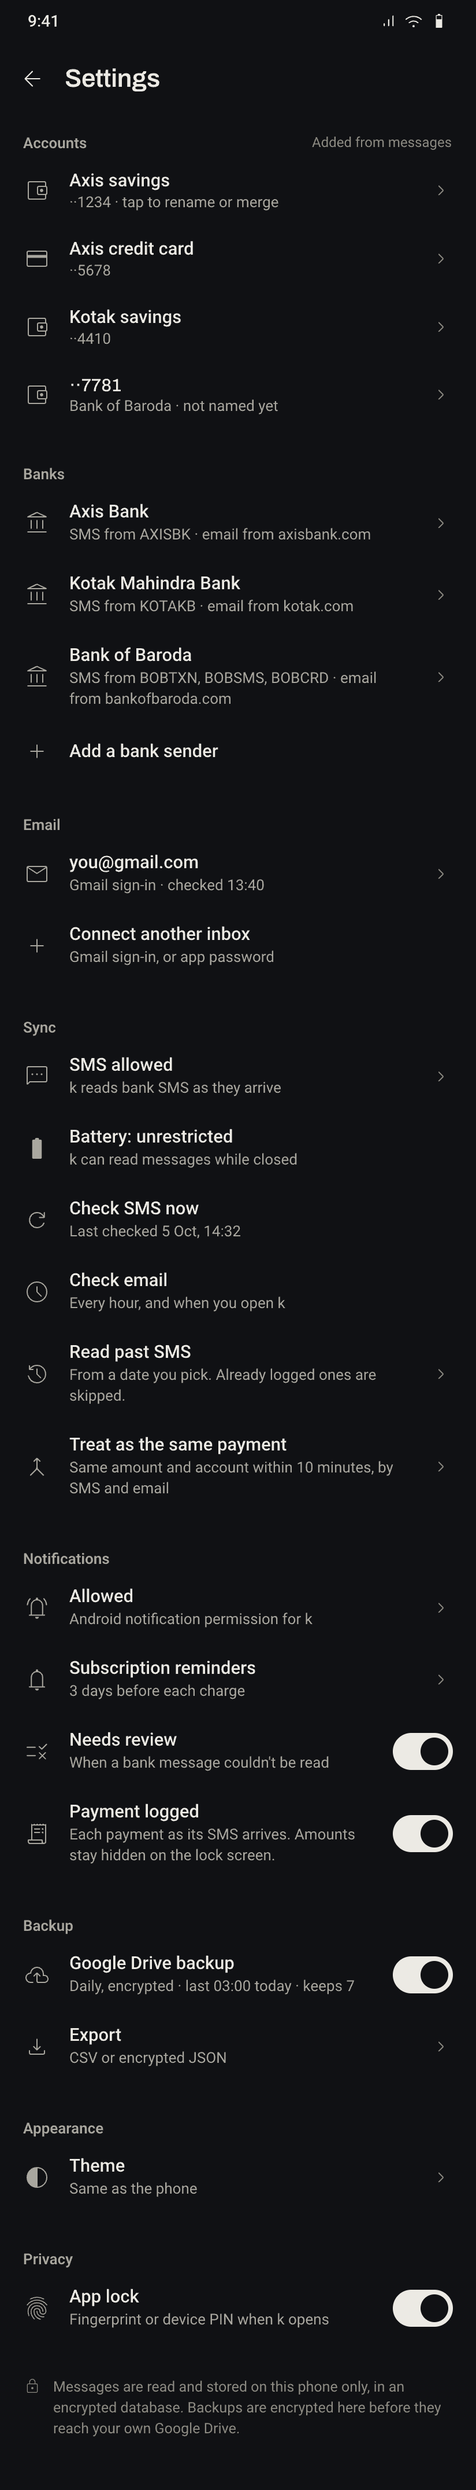
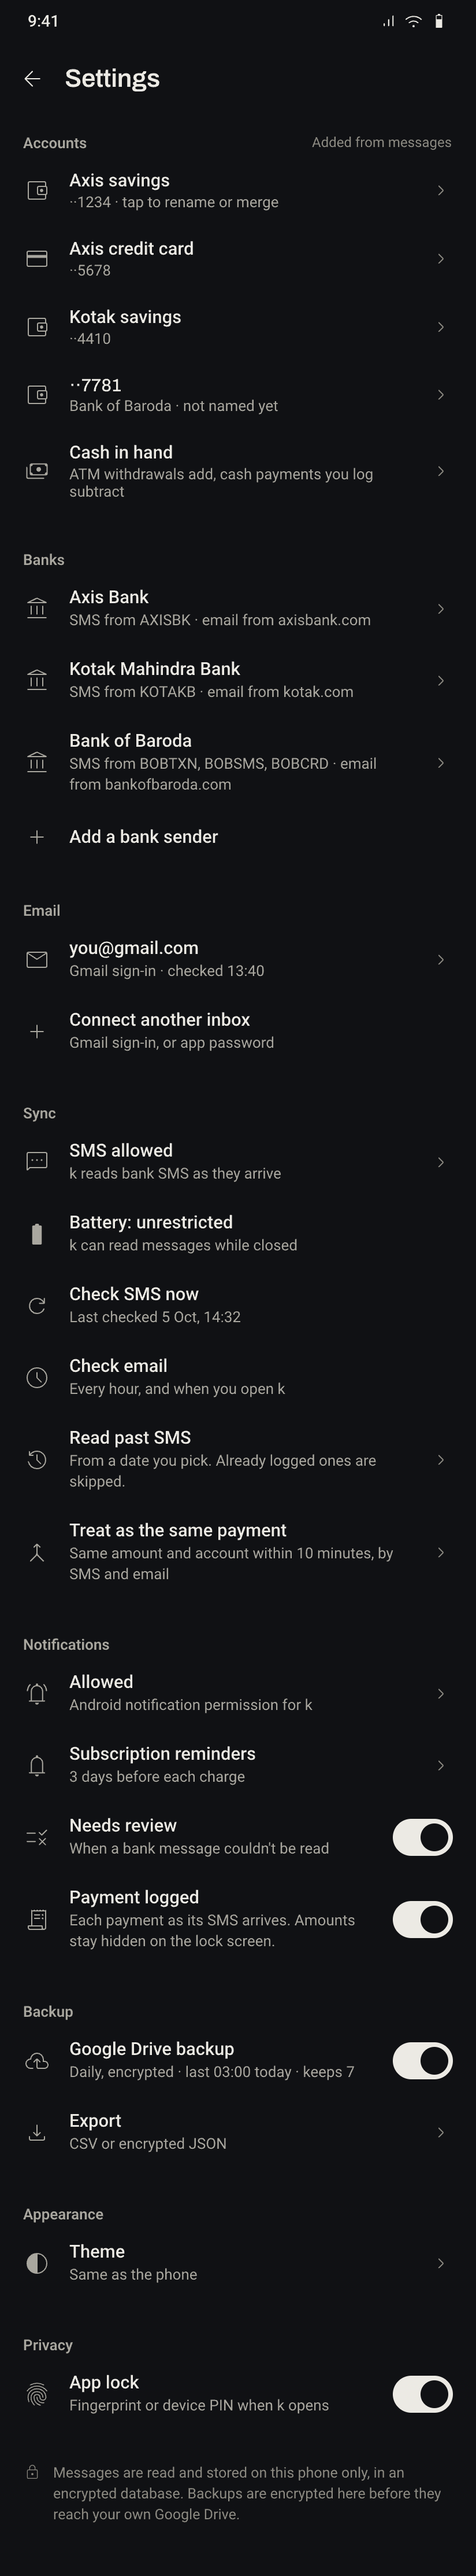
Designs: 10 accounts with cash in hand, 09b add-payment account sheet, cash row in 06

diff --git a/HANDOFF.md b/HANDOFF.md
@@ -1,6 +1,6 @@
 # Handoff — k
 
-Read this first in a new session, then `CLAUDE.md` (rules, layout, commands), `PRODUCT.md` (product truth) and `DESIGN.md` (design system). Updated 2026-10-05 (Phases 2–5 done and device-tested; Phase 6 code done: app lock, Drive backup, export/import — awaiting device test; Phase 4 device check pending; Cash account added). Schema v6.
+Read this first in a new session, then `CLAUDE.md` (rules, layout, commands), `PRODUCT.md` (product truth) and `DESIGN.md` (design system). Updated 2026-10-05 (Phases 2–5 done and device-tested; Phase 6 code done: app lock, Drive backup, export/import — awaiting device test; Cash account added). Schema v6.
 
 ## What k is
 Personal, sideloaded Android app (Flutter + native Kotlin for SMS) that logs payments by parsing bank SMS and bank alert emails (Axis, Kotak, BOB), dedups SMS+email, categorizes, detects subscriptions. All data on-device, encrypted DB. Owner works in two sessions: **main** (design + app phases) and **parser** (`packages/txn_parser/` only).
@@ -24,7 +24,7 @@ Personal, sideloaded Android app (Flutter + native Kotlin for SMS) that logs pay
 | Phase 2b: self-transfer linking | **Done.** `flutter test` 28 pass. Owner tested Phase 2 on device: SMS capture works |
 | Phase 2c: account balances + owner-added transfer side + account merge | **Done.** `flutter test` 33 pass |
 | Phase 3: review queue, save & learn, category rules | **Done.** Owner tested on device (fixes: dialog crash, slash words, learned formats screen) |
-| Phase 4: subscriptions + reminders | **Code done, awaiting on-device test.** `flutter test` 54 pass, debug APK builds |
+| Phase 4: subscriptions + reminders | **Done** (code). Owner can't set up the device checks; don't ask again |
 | Phase 5: email + dedup | **Done.** Device-tested: Gmail sign-in (Testing mode, owner is a test user), email ingest, SMS+email merge, Save & learn on email, Add payment. Later checks: hourly background sync with app swiped away; 7-day Gmail expiry → re-sign-in. Owner keeps an app-password inbox on the same address as backup (content hash stops double logging) |
 | Phase 6 | **Code done, awaiting device test.** Summary (05), app lock (07/07b), Drive backup + export + import/restore (06e–06h). `flutter test` 79 pass, debug APK builds |
 
@@ -143,17 +143,12 @@ Owner's rule: an ATM withdrawal counts as spent (as before) and adds to cash; a 
 - `computeCashBalance`: owner's counted figure (Accounts → Set balance) or 0, plus later ATM debits on any other account (an ATM credit/deposit subtracts), plus cash credits, minus cash debits.
 - `TxnView.countsInTotals` (= not a transfer, not cash) drives month panel, Summary report and day "out" totals. So cash payments don't show in Summary categories; the withdrawal stays under "ATM withdrawal".
 - Add payment: "Cash" is an account choice (lowers cash), "Not in k" replaces "Cash or not in k". Txn row shows a cash icon; detail says "from cash, counted at the ATM".
-- Not designed in Pencil (changes to existing screens only).
+- Designs: `10-accounts` (Cash in hand row), `09b-add-payment-account-sheet` (Cash / Not in k), Cash row in `06-settings`.
 
-## Next step: Phase 6 device test; Phase 4 device check still pending
+## Next step: Phase 6 device test
 Google Cloud project stays in **Testing** (owner's choice: production needs homepage + privacy policy URLs); Gmail grant expires every 7 days.
 Phase 5 checks: Settings → Email → Connect → Sign in with Google (unverified warning → Advanced → Go to k; allow Gmail read) → bank mail imports; a payment with SMS + email shows once with two sources; app password path; background hourly sync after swiping the app away.
 
-Phase 4 checks:
-1. Subscriptions tab: suggestions appear for merchants with 3 monthly charges (or AutoPay alerts); Track it asks for notification permission.
-2. Totals line, next charge dates, cycle bars look right; open a plan, edit amount/repeats/next charge/reminder; Not using it dims the row.
-3. Set a reminder that lands soon (e.g. next charge = tomorrow, remind 1 day before) → notification at 09:00.
-4. Stop tracking removes it from the list; Not a subscription never comes back.
 
 ## Earlier device checks (Phase 2/3)
 1. Review tab lists unread messages with a guessed amount and reason.
